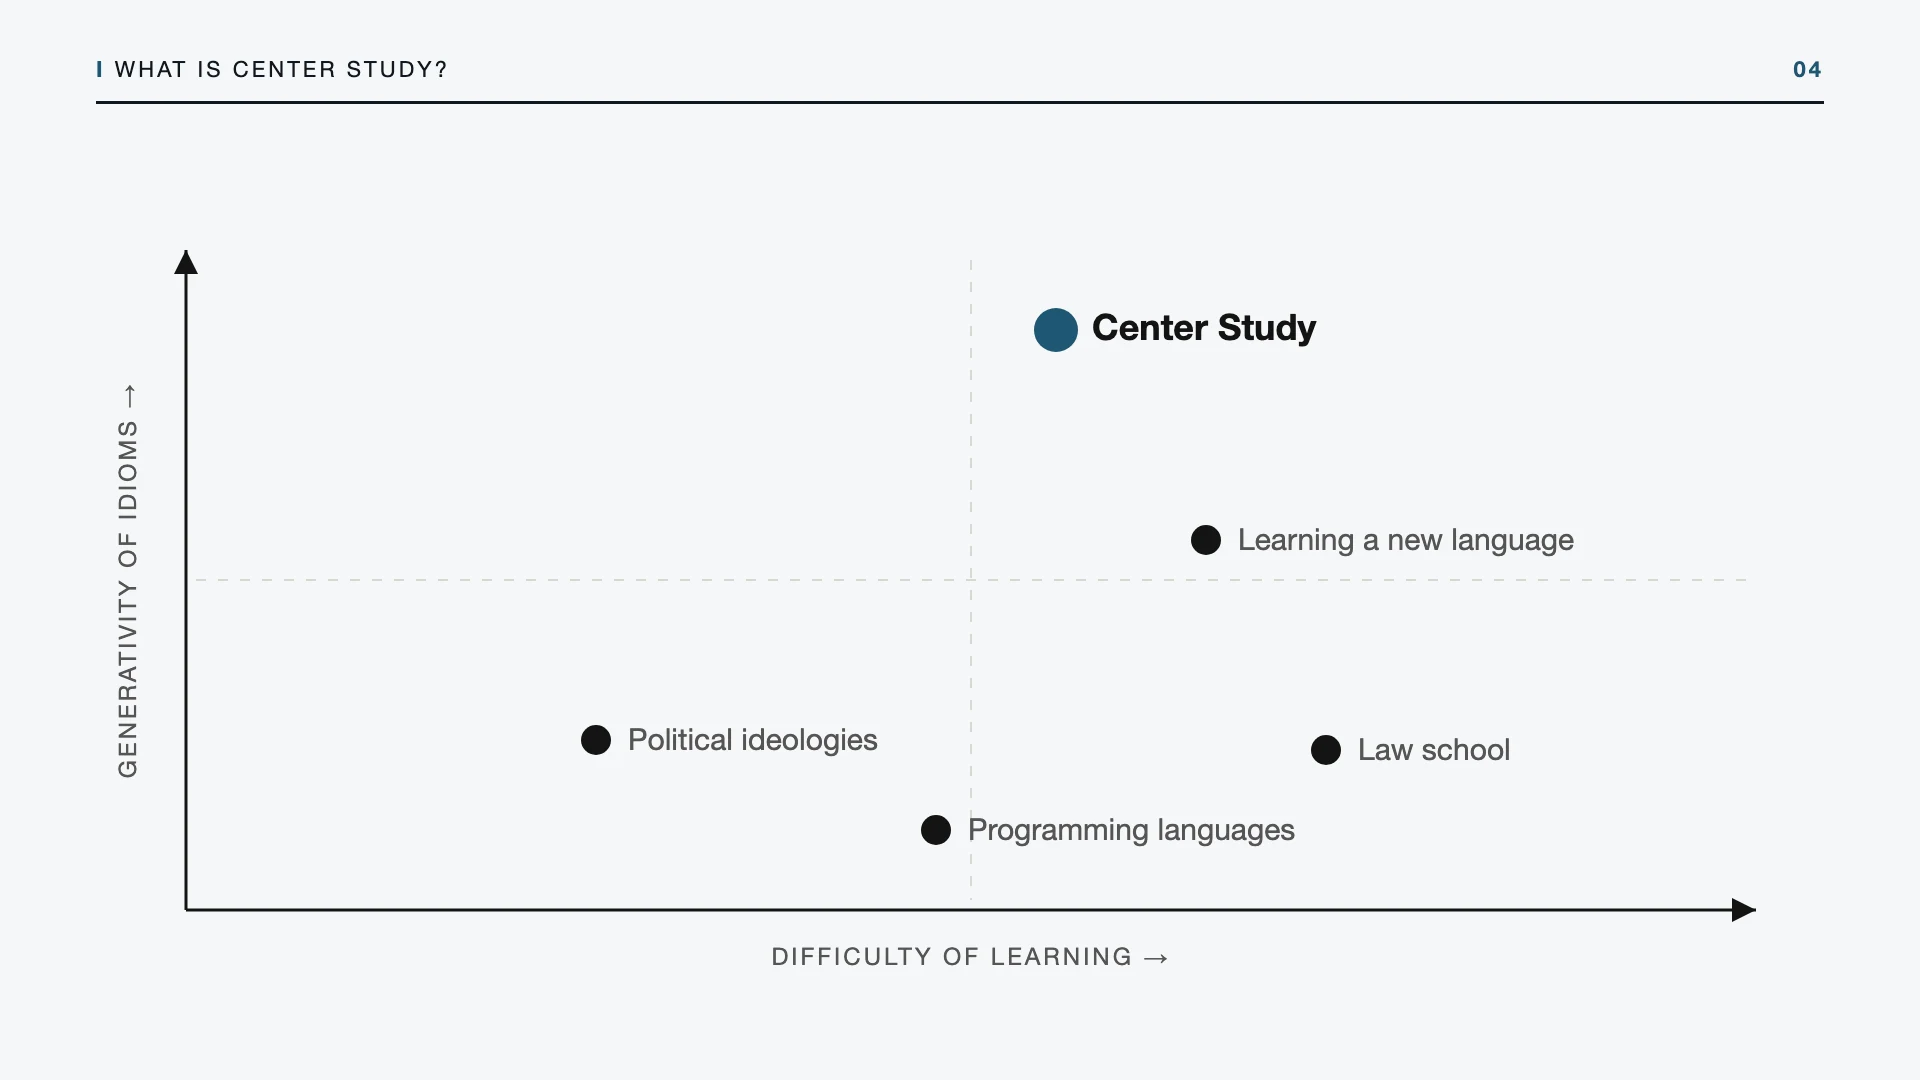
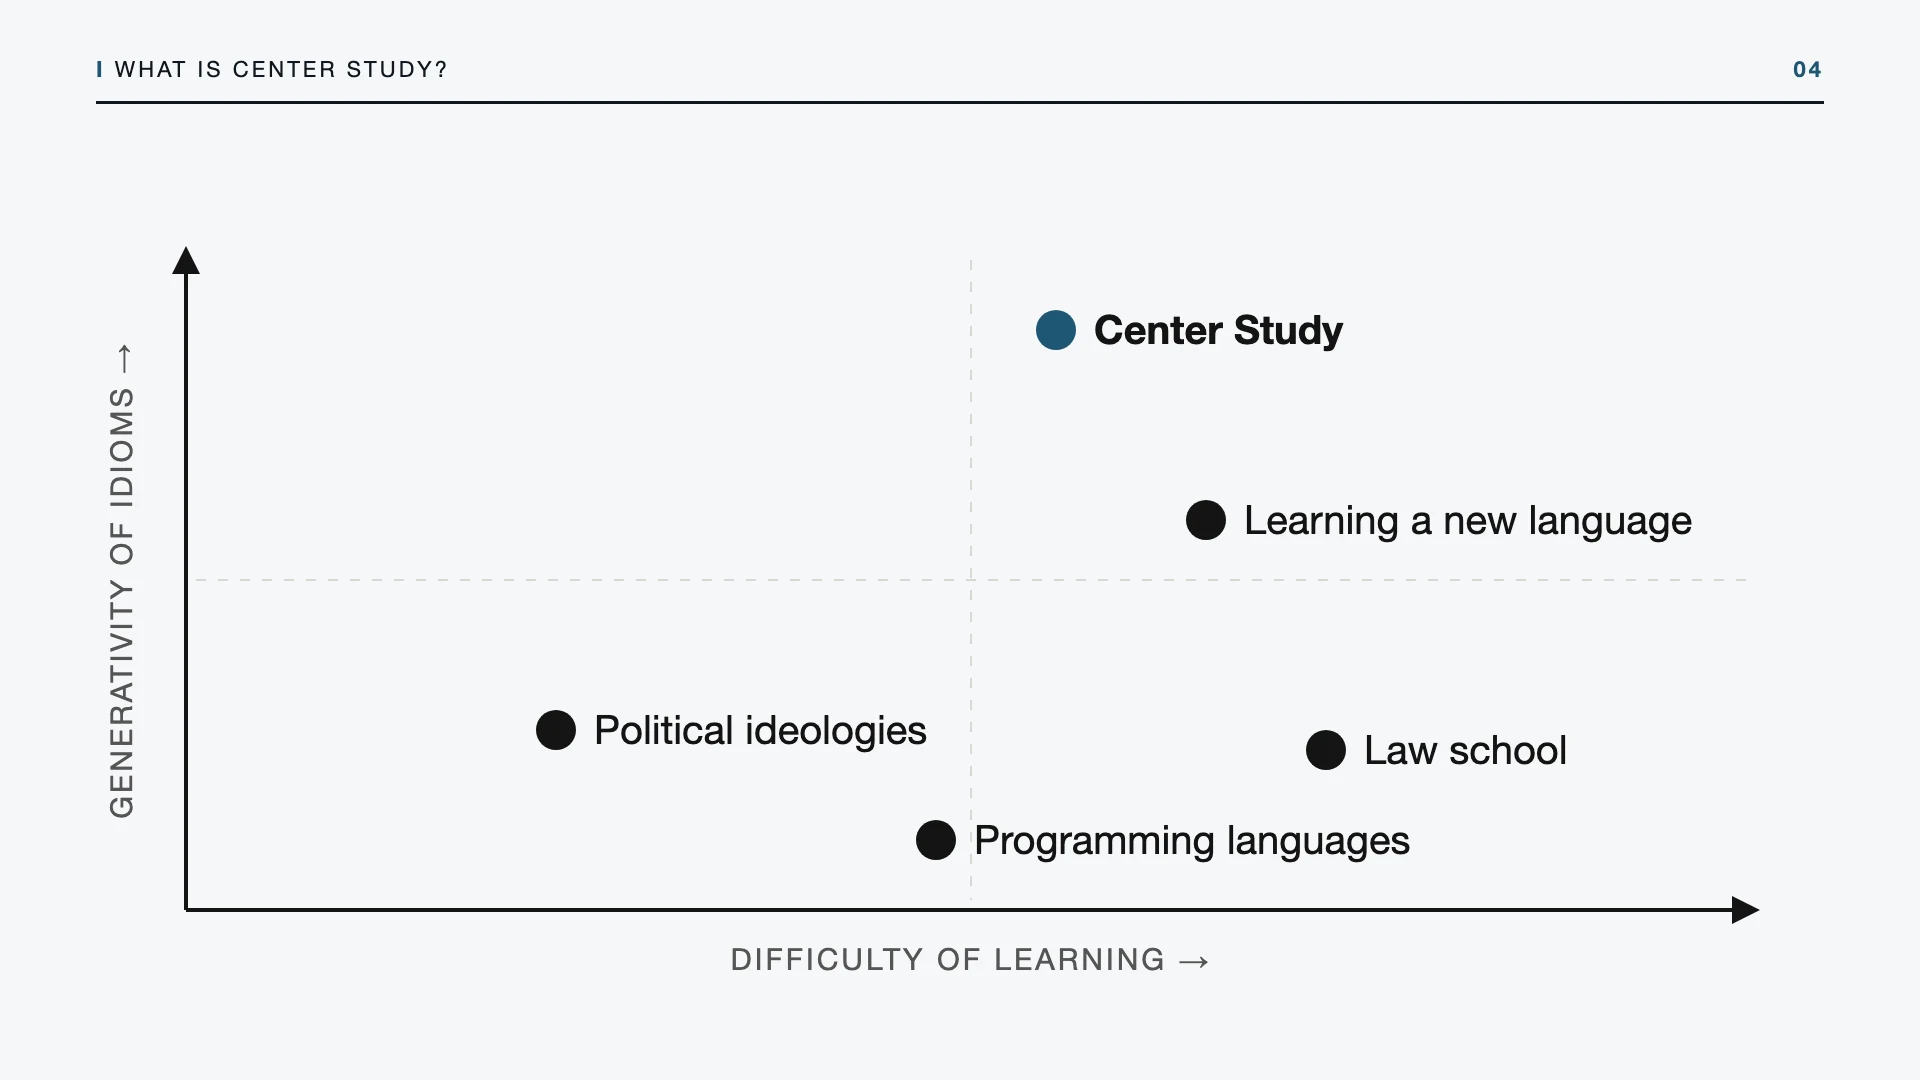
Talk page: more concept links, visible quote footnotes, clearer 2x2 slide
Add dotted concept links (generative anthropology, Center Study,
idiom, firstness, scapegoating, event, mimetic theory,
Anthropomorphics, shared attention, debt and credit, money) and make
every archive-sourced quote visibly clickable with an always-on dotted
underline plus the source arrow; the Levi-Strauss line now links to
Chronicle 628. Redraw the 2x2 slide with uniform dot and label sizes
and heavier axes.

diff --git a/src/app/intro-center-study-zack-baker/page.tsx b/src/app/intro-center-study-zack-baker/page.tsx
@@ -64,14 +64,14 @@ function H2({ children }: { children: React.ReactNode }) {
 }
 
 
-// A quoted passage linked to its verbatim source in the archive — the quote
-// underlines on hover and carries a small arrow so readers can see it's
+// A quoted passage linked to its verbatim source in the archive — always
+// visibly underlined (dotted) with a small arrow so readers can see it's
 // addressable. href lands on the post with the passage highlighted (?q=).
 function Q({ slug, q, children }: { slug: string; q: string; children: React.ReactNode }) {
   return (
     <Link
       href={`/post/${slug}?q=${encodeURIComponent(q)}`}
-      className="hover:underline decoration-1 underline-offset-2"
+      className="underline decoration-dotted decoration-gray-400 dark:decoration-gray-600 underline-offset-2 hover:decoration-solid hover:decoration-gray-700 dark:hover:decoration-gray-400 transition-colors"
       title="Read this passage in its post"
     >
       {children}
@@ -127,12 +127,15 @@ export default function IntroPage() {
         audience&mdash;Mr. Tivy and others who, in Berkeley at that time, were
         asking really big questions: What is the nature of our social order?
         What is the nature of the human? During that time I discovered a very
-        strange theory called generative anthropology, which I became totally
-        fixated on and have not stopped thinking about since.
+        strange theory called{' '}
+        <Link href="/generative-anthropology" className={TERM_CLASS} title="Generative Anthropology — the overview">generative anthropology</Link>
+        , which I became totally fixated on and have not stopped thinking
+        about since.
       </P>
       <P>
-        Since then, generative anthropology has forked into something called
-        Center Study. My goal today is to give you a quick overview of what
+        Since then, generative anthropology has forked into something called{' '}
+        <TermLink href="/guide/concepts/center-study" defKey="c:center-study" className={TERM_CLASS} title="Concept: Center Study">Center Study</TermLink>
+        . My goal today is to give you a quick overview of what
         Center Study is, where it comes from, and what you can do with it. What
         I want to convince you of is that it&rsquo;s one of the most powerful
         ways of thinking I&rsquo;ve discovered, and that for any of the
@@ -156,7 +159,9 @@ export default function IntroPage() {
       <Slide n={4} alt="A 2×2: generativity of idioms against difficulty of learning" />
       <P>
         I made a two-by-two. On the x-axis is difficulty of learning. On the
-        y-axis is what I&rsquo;d call the generativity of idioms&mdash;think of
+        y-axis is what I&rsquo;d call the generativity of{' '}
+        <TermLink href="/guide/concepts/idiom" defKey="c:idiom" className={TERM_CLASS} title="Concept: idiom">idioms</TermLink>
+        &mdash;think of
         it like the Sapir-Whorf hypothesis: once you learn the thing, how
         differently do you see the world? What new ideas and phrases does it
         give you for approaching reality? Imagine the difficulty of learning
@@ -170,8 +175,9 @@ export default function IntroPage() {
       <P>
         Who in this room has heard of René Girard? The whole room&mdash;so I
         won&rsquo;t spend time on Girard. This is his student, Eric Gans. Gans
-        was among Girard&rsquo;s first PhD students&mdash;and firstness is a
-        theme we&rsquo;ll keep returning to; it&rsquo;s very important in
+        was among Girard&rsquo;s first PhD students&mdash;and{' '}
+        <TermLink href="/guide/concepts/firstness" defKey="c:firstness" className={TERM_CLASS} title="Concept: firstness">firstness</TermLink>
+        {' '}is a theme we&rsquo;ll keep returning to; it&rsquo;s very important in
         generative anthropology and Center Study. Gans studied under Girard at
         Johns Hopkins and was part of the 1966 conference where Derrida gave
         his presentation on structure, sign, and play in the human sciences.
@@ -179,23 +185,29 @@ export default function IntroPage() {
       <Slide n={6} alt="René Girard and Eric Gans" />
       <P>
         At that conference Gans started to realize that Girard had a big hole
-        in his hypothesis. You know the scapegoating event: everybody gangs up
-        on a single human and lynches them. But why would this be meaningful?
+        in his hypothesis. You know the{' '}
+        <TermLink href="/guide/concepts/scapegoating" defKey="c:scapegoating" className={TERM_CLASS} title="Concept: scapegoating">scapegoating</TermLink>
+        {' '}event: everybody gangs up on a single human and lynches them. But
+        why would this be meaningful?
         Animals kill single animals in their groups all the time. Girard wants
         to say there&rsquo;s something about this scapegoating event that
         radically transformed the community. That means there must be some
         sense of meaning&mdash;some way in which this event was a meaningful
-        event, an event at all&mdash;and he doesn&rsquo;t explain why that
+        event, an{' '}
+        <TermLink href="/guide/concepts/event" defKey="c:event" className={TERM_CLASS} title="Concept: event">event</TermLink>
+        {' '}at all&mdash;and he doesn&rsquo;t explain why that
         happens. One way to put it: he doesn&rsquo;t explain where language
         comes from. So Gans amends Girard&rsquo;s theory.
       </P>
       <Slide n={7} alt="Timeline: 1961–2021, Girard to Gans to Katz" />
       <P>Here&rsquo;s the timeline in twenty-year punches:</P>
       <ul className="text-gray-800 dark:text-gray-200 leading-relaxed mb-5 list-none pl-0 space-y-2">
-        <li>1961 &mdash; Girard, <em>Deceit, Desire, and the Novel</em>: the imitative nature of humans; mimetic theory.</li>
+        <li>1961 &mdash; Girard, <em>Deceit, Desire, and the Novel</em>: the imitative nature of humans;{' '}
+          <TermLink href="/guide/concepts/mimesis" defKey="g:mimetic-desire" className={TERM_CLASS} title="Concept: mimesis">mimetic theory</TermLink>.</li>
         <li>1981 &mdash; Gans, <em>The Origin of Language</em>.</li>
         <li>2001 &mdash; Adam Katz discovers Gans&rsquo;s work and begins working through what becomes Center Study.</li>
-        <li>2021 &mdash; Katz, <em>Anthropomorphics: An Originary Grammar of the Center</em>.</li>
+        <li>2021 &mdash; Katz,{' '}
+          <TermLink href="/guide/concepts/anthropomorphics" defKey="c:anthropomorphics" className={TERM_CLASS} title="Concept: Anthropomorphics"><em>Anthropomorphics: An Originary Grammar of the Center</em></TermLink>.</li>
       </ul>
       <P>
         That&rsquo;s the lineage: mimetic theory, to generative anthropology,
@@ -214,8 +226,8 @@ export default function IntroPage() {
       <Slide n={11} alt="Société de Linguistique de Paris, statutes of 1866, Article 2" />
       <P>
         There&rsquo;s a history here, with people like Claude Lévi-Strauss and
-        Wilhelm von Humboldt. &ldquo;Language can only have arisen all at once:
-        things cannot have begun to signify gradually.&rdquo; &ldquo;Man is man
+        Wilhelm von Humboldt. <Q slug="clr-628" q="arisen all at once">&ldquo;Language can only have arisen all at
+        once: things cannot have begun to signify gradually.&rdquo;</Q> &ldquo;Man is man
         only through language, but in order to invent language he had already
         to be a man.&rdquo; Rousseau has comments on this too. And I always
         point out that the French Academy of Sciences actually banned all
@@ -237,8 +249,10 @@ export default function IntroPage() {
         know that I know: third-order attention. I&rsquo;m seeing you see me
         see something. No animal does this. I have five minutes of video, which
         I won&rsquo;t play now, showing how apes and human babies differ in
-        this way. Third-order attention&mdash;shared attention&mdash;is unique
-        to the human species, and it&rsquo;s part of how language emerges.
+        this way. Third-order attention&mdash;
+        <TermLink href="/guide/concepts/attentionality" defKey="g:shared-attention" className={TERM_CLASS} title="Concept: attentionality">shared attention</TermLink>
+        &mdash;is unique to the human species, and it&rsquo;s part of how
+        language emerges.
       </P>
 
       <H2>IV. The originary scene</H2>
@@ -280,8 +294,9 @@ export default function IntroPage() {
         time. As they reach, there&rsquo;s something not quite a realization
         but a fear that if everyone goes for it at once, violence will ensue.
         At least one of the animals&mdash;likely a sigma, someone not quite the
-        alpha, someone in the middle&mdash;holds back and turns a gesture of
-        appropriation, of grabbing, into something like a point. That gesture
+        alpha, someone in the middle&mdash;holds back and turns a{' '}
+        <TermLink href="/guide/concepts/originary-scene" defKey="g:aborted-gesture-of-appropriation" className={TERM_CLASS} title="Concept: the aborted gesture of appropriation">gesture of appropriation</TermLink>
+        , of grabbing, into something like a point. That gesture
         is recognized by others and imitated, and they all point at the object.
       </P>
       <P>
@@ -359,13 +374,15 @@ export default function IntroPage() {
         <strong>There is no economy, only the debt to the center.</strong> This
         is the title of an article I co-authored with Adam, but the phrase is
         more than that. From the first animal sacrifice to the Fed&rsquo;s
-        quantitative easing yesterday, we can think about the economy as a debt
-        and credit relationship with the center itself.
+        quantitative easing yesterday, we can think about the economy as a{' '}
+        <TermLink href="/guide/concepts/debt-and-credit" defKey="c:debt-and-credit" className={TERM_CLASS} title="Concept: debt and credit">debt and credit</TermLink>
+        {' '}relationship with the center itself.
       </P>
       <P>
         <strong>The conversion of assets into data.</strong> There&rsquo;s a
-        lot to say here, but let&rsquo;s say money itself is just data, and
-        will become more so.
+        lot to say here, but let&rsquo;s say{' '}
+        <TermLink href="/guide/concepts/money" defKey="c:money" className={TERM_CLASS} title="Concept: money">money</TermLink>
+        {' '}itself is just data, and will become more so.
       </P>
       <P>
         <strong>The infinite exhaustibility of pedagogy.</strong> There will
